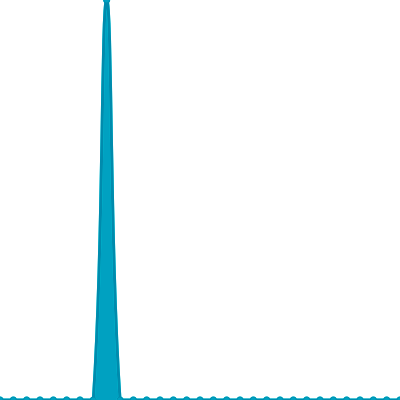
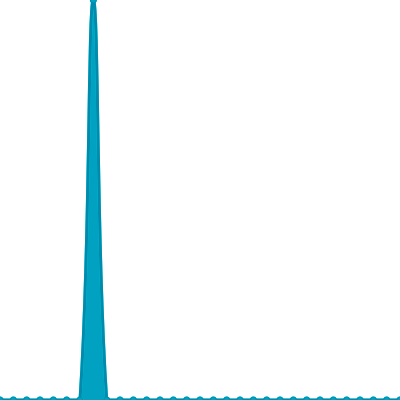
Update views

Changed region(s): [[0.18, 0.0, 0.33, 1.0]]

diff --git a/readme/475218523/month.md b/readme/475218523/month.md
@@ -21,6 +21,17 @@
 	</tr>
 	<tr>
 		<td>
+			<code>2024/1/7</code>
+		</td>
+		<td>
+			<code>0</code>
+		</td>
+		<td>
+			<code>0</code>
+		</td>
+	</tr>
+	<tr>
+		<td>
 			<code>2024/1/6</code>
 		</td>
 		<td>
@@ -349,21 +360,10 @@
 			<code>0</code>
 		</td>
 	</tr>
-	<tr>
-		<td>
-			<code>2023/12/7</code>
-		</td>
-		<td>
-			<code>0</code>
-		</td>
-		<td>
-			<code>0</code>
-		</td>
-	</tr>
 </table>
 
 </details>
-<small><i>Last updated on 2024/1/6 6:02 PM UTC</i></small>
+<small><i>Last updated on 2024/1/7 12:11 AM UTC</i></small>
 
 ## ✂Copy and 📋 Paste
 ### SVG Badge

diff --git a/readme/475218523/week.md b/readme/475218523/week.md
@@ -21,6 +21,17 @@
 	</tr>
 	<tr>
 		<td>
+			<code>2024/1/7</code>
+		</td>
+		<td>
+			<code>0</code>
+		</td>
+		<td>
+			<code>0</code>
+		</td>
+	</tr>
+	<tr>
+		<td>
 			<code>2024/1/6</code>
 		</td>
 		<td>
@@ -96,21 +107,10 @@
 			<code>0</code>
 		</td>
 	</tr>
-	<tr>
-		<td>
-			<code>2023/12/30</code>
-		</td>
-		<td>
-			<code>0</code>
-		</td>
-		<td>
-			<code>0</code>
-		</td>
-	</tr>
 </table>
 
 </details>
-<small><i>Last updated on 2024/1/6 6:02 PM UTC</i></small>
+<small><i>Last updated on 2024/1/7 12:11 AM UTC</i></small>
 
 ## ✂Copy and 📋 Paste
 ### SVG Badge

diff --git a/README.md b/README.md
@@ -26,7 +26,7 @@ The project created and maintained by [gayanvoice](https://github.com/gayanvoice
 			</a>
 		</td>
 		<td>
-			2024/1/4 12:10 AM UTC
+			2024/1/5 12:09 AM UTC
 		</td>
 		<td>
 			13
@@ -37,7 +37,7 @@ The project created and maintained by [gayanvoice](https://github.com/gayanvoice
 	</tr>
 </table>
 
-<small><i>Last updated on 2024/1/6 6:03 PM UTC</i></small>
+<small><i>Last updated on 2024/1/7 12:11 AM UTC</i></small>
 
 ## ✂Copy and 📋 Paste
 ### Total Views Badge

diff --git a/readme/475218523/year.md b/readme/475218523/year.md
@@ -165,7 +165,7 @@
 </table>
 
 </details>
-<small><i>Last updated on 2024/1/6 6:02 PM UTC</i></small>
+<small><i>Last updated on 2024/1/7 12:11 AM UTC</i></small>
 
 ## ✂Copy and 📋 Paste
 ### SVG Badge
